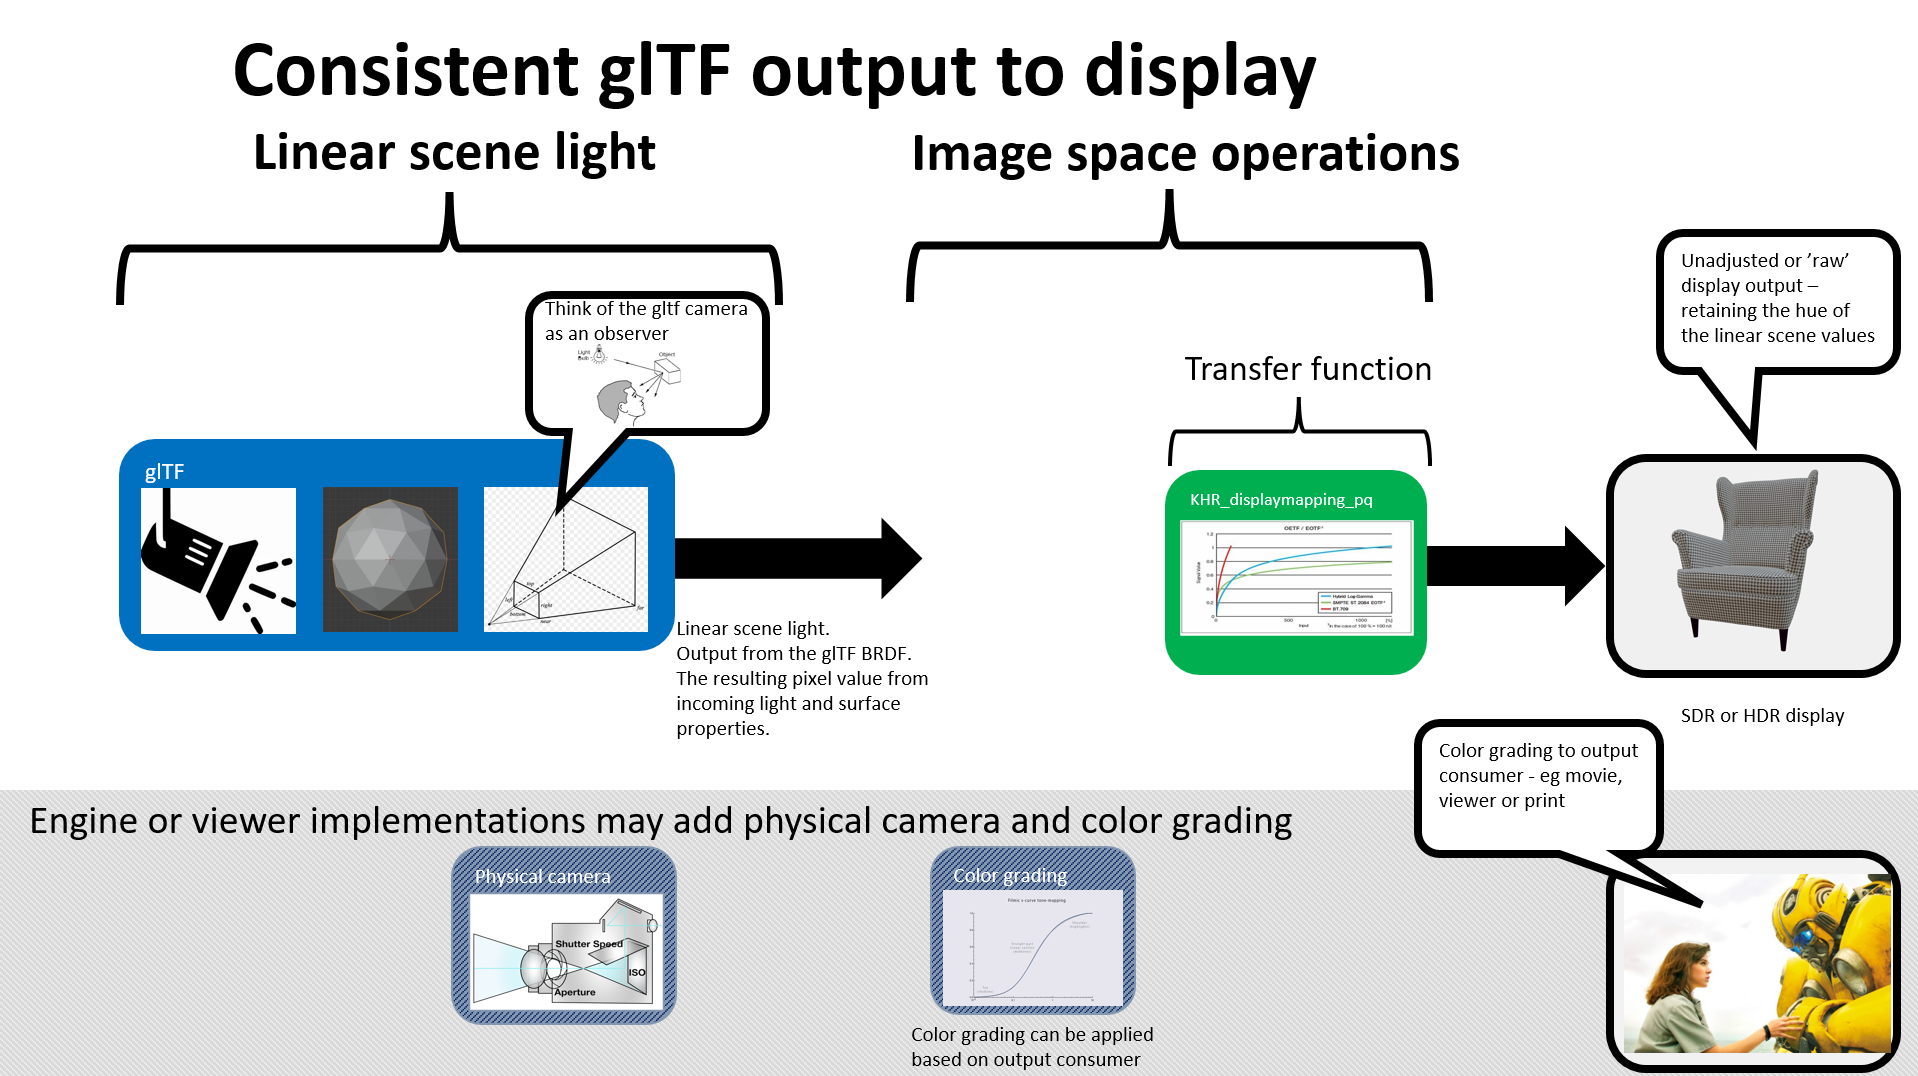
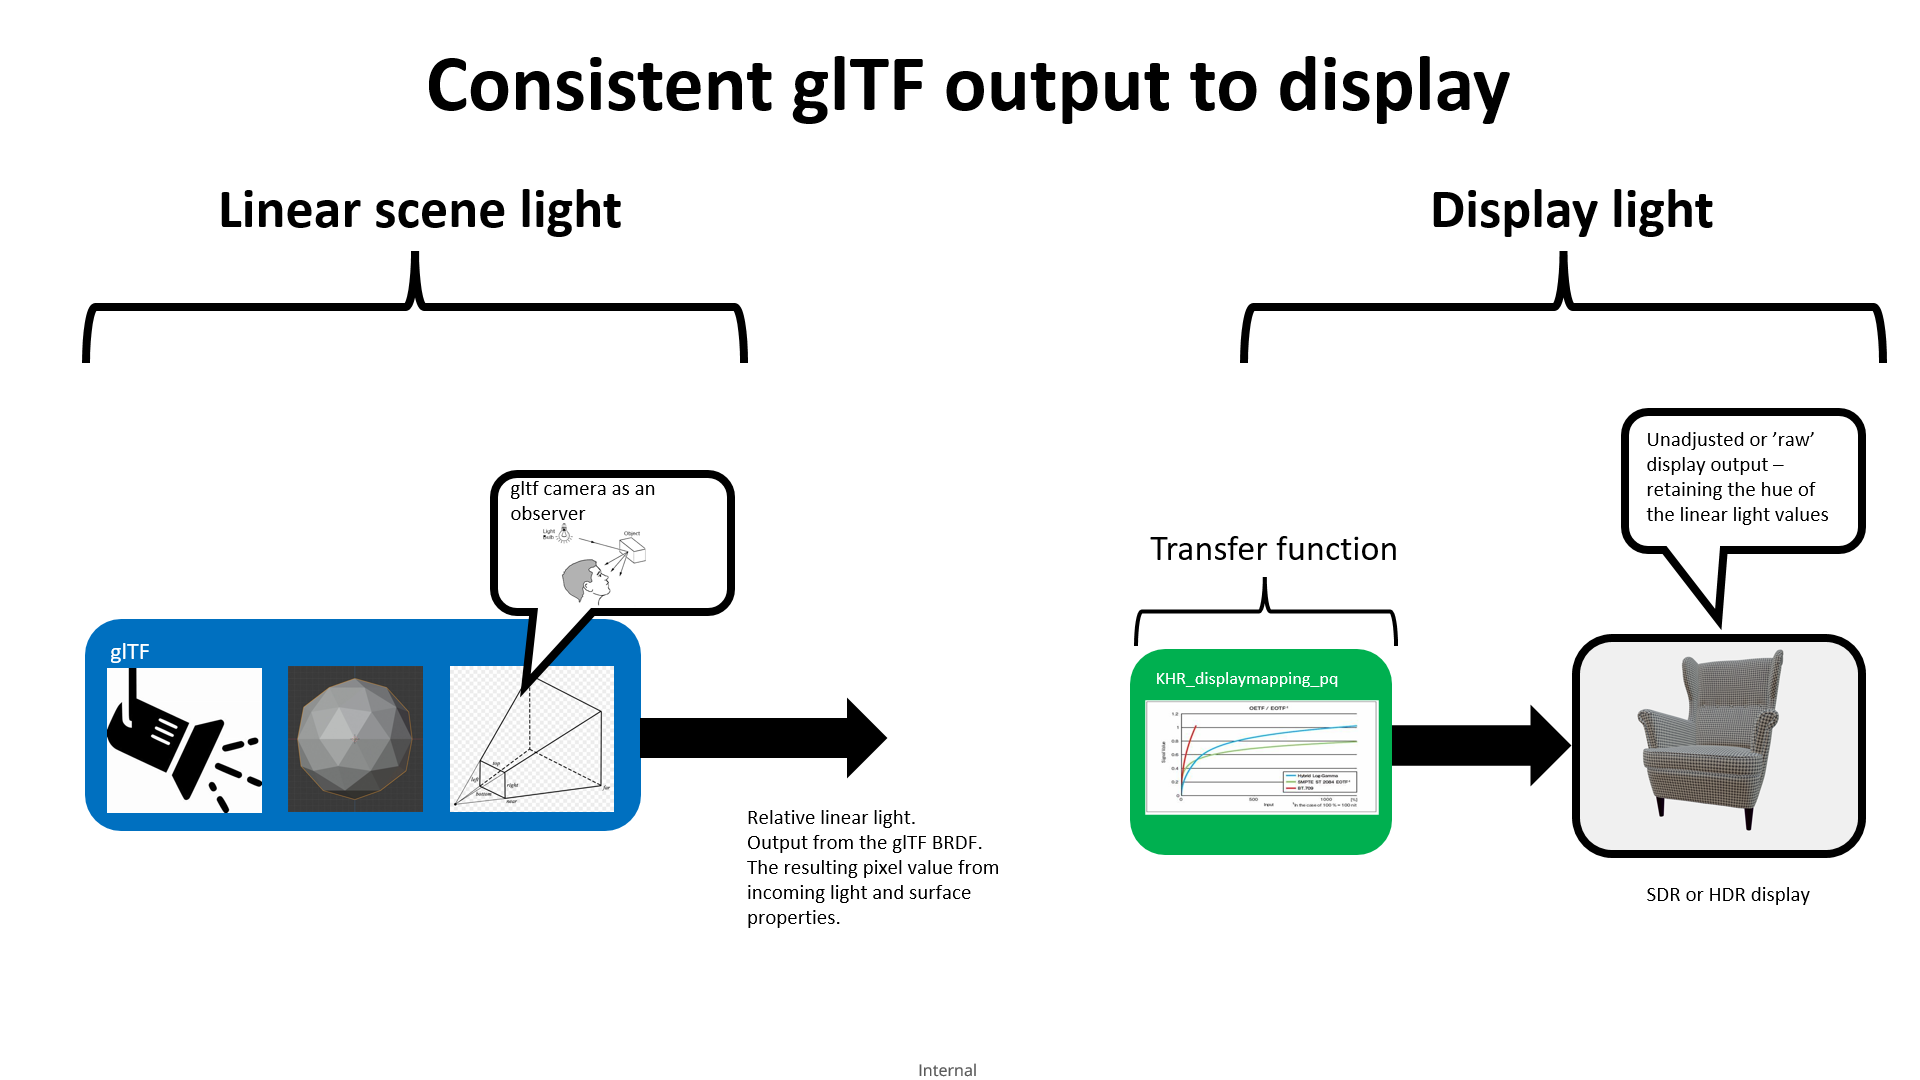
Update to clarify terminology

diff --git a/extensions/2.0/Khronos/KHR_displaymapping_pq/README.md b/extensions/2.0/Khronos/KHR_displaymapping_pq/README.md
@@ -21,6 +21,23 @@ Written against the glTF 2.0 spec.
 
 ## Exclusions
 
+## Termonilogy
+
+This extension uses the following terms:
+
+
+|NAME|MEANING|
+|------|-----|
+|OETF|The opto-electronic transfer function, which converts linear scene light into the video signal. It is the inverse-EOTF and is sometimes called 'Display Encoding'.|
+|EOTF|The electro-optical Transfer Function, which converts the video signal into the linear light output of the display.|
+|OOTF|opto-optical transfer function, which converts linear scene light to display linear light. Sometimes called 'Tone mapping'.|
+|Linear scene light | Light output from the scene in cd / m2. |
+|Relative linear light | Light output in the range [0 - 10000] cd / m2 where 10000 equals a fully exposed pixel |
+|Tone-mapping | Converts linear light to linear display light. Given the display properties and viewing environment reproduces the perceptual impression that the viewer would have observing the original scene |
+
+
+
+
 ## Overview
 
 This extension is intended for implementations that targets a display with the goal of outputting at interactive framerates in either HDR or SDR in a physically correct manner.    
@@ -56,8 +73,8 @@ Notice how colors have been clipped and changed hue</em></figcaption>
 
 
 This extension standardizes the output from such a scene in a way that the result is predictable, physically correct and retains hue.  
-When using this extension light intensity shall be kept between 0 and 10 000 lumen/m2.  
-Any light intensity value above 10 000 lumen/m2 will be clamped  
+When using this extension light output from the BRDF shall be kept between 0 and 10 000 lumen/m2.  
+This light output is called relative linear light, where 0 is a black pixel and 10000 equals a fully (bright) exposed pixel on the display.
 
 This extension does not declare user defined tone-mapping, s-curve, color lookup table (LUT) or similar as the process of applying these may be non pysically based and alter the energy conserving nature of the glTF BRDF.    
 
@@ -68,10 +85,18 @@ According to research (Bernstein et al. 2018) the mind's perception of brightnes
 The difference in the perception of the object's brightness is based on background color.    
 Given this relation means it is important to retain the relative brightness of the linear scene light values.  
 
+Here the term renderer means a rendering engine that consits of a system wherein a buffer containing the pixel values for each frame is prepared. 
+This buffer will be referred to as the framebuffer.  
+The framebuffer can be of varying range, precision and colorspace. This has an impact on the color gamut that can be displayed.  
+
+After completion of one framebuffer it is output to the display, this is usually done by means of a swap-chain. The details of how the swap-chain works is outside the scope of this extension.  
+KHR_displaymapping_pq specifies one method of mapping internal pixel values to that of the framebuffer.  
+
+This extension does not define an OOTF (or Tone mapping) to convert linear scene light to linear display light.  
+
 This extension does not seek to model the psychological perception of the human vision system, instead it provides means to reproduce the scene light information as it would be 'captured' by a human observer (in the scene).    
 The goal is to replicate the amount of light that would enter into the eye, through the cornea, and end up on the retina.    
 Modelling of biological effects such as photoreceptor fatigue or mind perception is not part of the goal of this extension.    
-
 
 This extension does not take the viewing environment of the display, or eye light adaptation, into consideration.  
 It is assumed that the content is viewed in an environment that is dimly lit (~5 cd / m2) without direct light on the display.  
@@ -79,12 +104,6 @@ Viewer calibration is not part of this extension as this is heavily dependant on
 
 This extensions provides the specification for using HDR compatible display outputs while at the same time retaining compatibility with SDR display outputs.  
 
-Here the term renderer means a rendering engine that consits of a system wherein a buffer containing the pixel values for each frame is prepared. 
-This buffer will be referred to as the framebuffer.  
-The framebuffer can be of varying range, precision and colorspace. This has an impact on the color gamut that can be displayed.  
-
-After completion of one framebuffer it is output to the display, this is usually done by means of a swap-chain. The details of how the swap-chain works is outside the scope of this extension.  
-KHR_displaymapping_pq specifies one method of mapping internal pixel values to that of the framebuffer.  
 
 
 <figure>
@@ -123,7 +142,7 @@ Visualization of multiple glTF assets using this extension is supported and will
 
 If the glTF asset contains multiple scenes, each one when rendered, shall be output using this extension.  
 
-If the glTF asset contains this extension but no scene or model data then it may be treated as an enabler for displaymapping.  
+If the glTF asset contains this extension but no scene or model data then it may be treated as an enabler for the PQ transfer function.  
 This could for instance be a 'Main product' type of scenario, where the asset contains the light setup and uses this extension.    
 All nodes added to such scene shall use this extension.  
 
@@ -147,17 +166,30 @@ If the display type is considered to be HDR then color source images may need to
 **During each frame**
 
 
-**Clamp**
- Clamp incoming light values (illumination)  
-Before incoming light values are used in BRDF calculations they must be clamped at 10 000.  
-Total illumination for a pixel output to the display must not go above 10 000.  
-This shall be done in the light (brightness) domain, prior to RGB calculations.  
-
 **BRDF**
 See the glTF BRDF model for more information:  
 https://www.khronos.org/registry/glTF/specs/2.0/glTF-2.0.html#complete-model..
 
 RGB light output from the glTF BRDF is here called 'relative linear light' and is in the range [0.0 - 10000]  
+Light contribution can come from several lightsources. 
+To avoid costly and complex calculation of light contribution prior to the BRDF, values are scaled before sent to the OETF.  
+This scaling, not clamp, shall be done equally to RGB triplets in a way that retains hue.  
+
+** Implementation Notes**
+
+Pseudocode to scale BRDF output.
+
+```
+vec3 BRDF_SCALE(vec3 color) {
+  float factor = min(1, (10000 / max(color.r, max(color.g, b))));
+  return factor * color;
+}
+
+vec3 displayColor = BRDF_SCALE(brdfColor);
+
+```
+
+
 
 
 **OETF**
@@ -175,8 +207,7 @@ If target framebuffer is an encoded non-linear image format, the inverse of that
 
 | Input         |   Function    | Output range  | Description   |
 | ------------- | ------------- | ----------- |------------- |
-| [0.0 - X] | Clamp | [0.0 - 10000] | Clamps illumination values to be <= 10000. Total illumination for a pixel output to the display must not go above 10 000. Output is relative linear light. |
-| [0.0 - 10000] | BRDF | [0.0 - 10000] | The glTF BRDF calculations. Output is pixel light contribution to be displayed - relative linear light.|
+| [0.0 - X] | BRDF | [0.0 - 10000] | The glTF BRDF calculations. Output is scaled pixel value to be displayed - relative linear light. |
 | [0 - 10000]  |     OETF      | [0.0 - 1.0] | Framebuffer output - maps relative linear light to nonlinear PQ signal value. Output is non-linear PQ signal. |
 
 
@@ -190,25 +221,15 @@ Overview of where implementations may decide to perform the functions defined by
 <figcaption><em>Example design flow of image space implementation. This shows where implementations may choose to apply the image space functions of this extension. Note that this is only one example of how the renderprocess could be implemented. An implementation may need to apply image space operations at different points in the process</em></figcaption>
 </figure>
 
-If a pixel processing step shall be performed by a renderer, it can be done prior to **OETF**.  
-
-Exactly where this is performed will depend on in what space the processing shall be performed.  
-
-
-To process linear scene light [0.0 - X] - call your function before **Clamp**.  
-To process relative linear light [0 - 10000] call your function after **BRDF**.  
-
-
 ### Motivation
 
 Output pixel values from a rendered 3D model are generally in a range that is larger than that of a display device.  
 This may not be a problem if the output is a high definition image format or some other target that has the same range and precision as the internal calculations.  
 However, a typical usecase for a renderer targeting interactive framerates is that the output is a light emitting display.  
 Such a display rarely has the range and precision of internal calculations making it necessary to scale internal pixel values to match the characteristics of the output.  
-This mapping is generally referred to as tone-mapping, however the exact meaning of tone-mapping varies and can also mean the process of applying artistic intent to the output.  
-For that reason this document will use the term displaymapping.  
 
-The displaymapping for this extension is chosen from ITU BT.2100 which is the standard for HDR TV and broadcast content creation.   
+
+The transfer function for this extension is chosen from ITU BT.2100 which is the standard for HDR TV and broadcast content creation.   
 This standard uses the perceptual quantizer as transfer function, ie to go from relative linear light (display light) values to non linear output values.  
 The function is selected based on minimizing visual artefacts from color banding according to the Barten Ramp. Resulting on very slight visible banding on panels with 10 bits per colorchannel.  
 On panels with 12 bits there is no visible banding artefacts when using the perceptual qantizer.  
@@ -222,17 +243,11 @@ As the mind will perceive object brightess compared to the background, ie 100 vs
 Apart from being widely supported and used in the TV / movie industry the perceptual quantizer is also embraced by the gaming community, with support in the engines from some of the major game companies.  
 For instance, game engines Frostbite and Lumberyard and also in specific games such as Destiny 2 and Call Of Duty.  
 
-**Implementation Notes**
-
-The extension is compatible with usecases where a different output is wanted.  
-This could for instance be a viewer or engine that implements a physical camera or a post-processing step.  
-
 
 <figure>
 <img src="./images/DesignOverview.png"/>
-<figcaption><em>This extension affects the image processing step of the renderer.  
-Viewers or engines may choose to implement physical camera, post-processing or other type of features in the world/scene or image space.  
-The extension is fully compatible with such usecases</em></figcaption>
+<figcaption><em>Expected output using this extension  
+</em></figcaption>
 </figure>
 
 
@@ -243,14 +258,15 @@ The extension is fully compatible with such usecases</em></figcaption>
 
 When the KHR_displaymapping_pq extension is used all lighting and pixel calculations shall be done using the value 10000 (cd / m2) as the maximum ouput brightness.  
 
-Limiting the range of light contribution values to the specified range is done as part of the Integration Points.    
+Limiting the range of output brightness values to the specified range is done as part of the Integration Points.    
 [See Integration Points](#Integration-Points)  
 
 This does not have an impact on color texture sources since they define values as contribution factor.  
 
-The value 10000 cd / m2 for an output pixel with full brightness is chosen to be compatible with the Perceptual Quantizer (PQ) used in SMPTE ST 2084.. 
+The value 10000 cd / m2 for an output pixel with full brightness is chosen to be compatible with the Perceptual Quantizer (PQ) used in SMPTE ST 2084..  
+The range [0 - 10000] shall be seen as a relative linear light (display light) where 0 is black and 10000 is full brightness on the display.  
 
-It does not mean that the display will be capable of outputing this light intensity.  
+It does not mean that the display will be capable of outputing at brightness levels up to 10000 cd / m2  
 
 
 
@@ -263,7 +279,10 @@ Giving the benefit of a known increased light range as well as providing enough 
 
 Illumination values are clamped as part of the rendering process during BRDF light calculations meaning that the scene max light values can go above 10 000 lumen / m2.  
 
-Adding illumination above 10 000 lumen / m2 will give the effect of brightening the darker areas without affecting hue.    
+Adding illumination above 10 000 lumen / m2 will give the effect of brightening the darker areas without affecting hue or brightness of fully bright pixels.  
+
+A content creation tool supporting this extension shall display the rendered image according to specification when this extension is enabled for the asset  
+This is to ensure that users see the same output as is expected from a viewer.  
 
 The below images show 3D Commerce certification models under different illuminations, note that the light is one directional light.  
 
@@ -289,7 +308,7 @@ VK_COLOR_SPACE_DOLBYVISION_EXT
 
 For a list of Vulkan colorspaces [see Table 1 of VkColorSpaceKHR](https://www.khronos.org/registry/vulkan/specs/1.3-extensions/man/html/VkColorSpaceKHR.html)
 
-It is valid to choose a framebuffer with colorspace BT.2020 (or BT.2100) that does not use the SMPTE ST 2084 transfer function, if SMPTE ST 2084 is applied to pixel values before being output to display.  
+It is valid to choose a framebuffer with colorspace BT.2020 (or BT.2100) that does not use the SMPTE ST 2084 transfer function, if SMPTE ST 2084 (PQ EOTF) is applied to pixel values before being output to display.  
 
 
 **Implementation notes**
@@ -332,7 +351,7 @@ To convert to non-linear output value in the range 0.0 - 1.0 the reference PQ OE
 This is specified in ITU BT.2100:
 https://www.itu.int/rec/R-REC-BT.2100/en  
 
-After the OOTF is applied the OETF shall be applied, this will yield a non linear output-signal in the range [0.0 - 1.0] that shall be stored in the display buffer.  
+The OETF shall be applied after the BRDF calculations, this will yield a non linear output-signal in the range [0.0 - 1.0] that shall be stored in the display buffer.  
 This shall be done according to the parameter `Reference PQ OETF`of ITU BT.2100   
 
 Where the resulting non-linear signal (R,G,B) in the range [0:1] = E  
